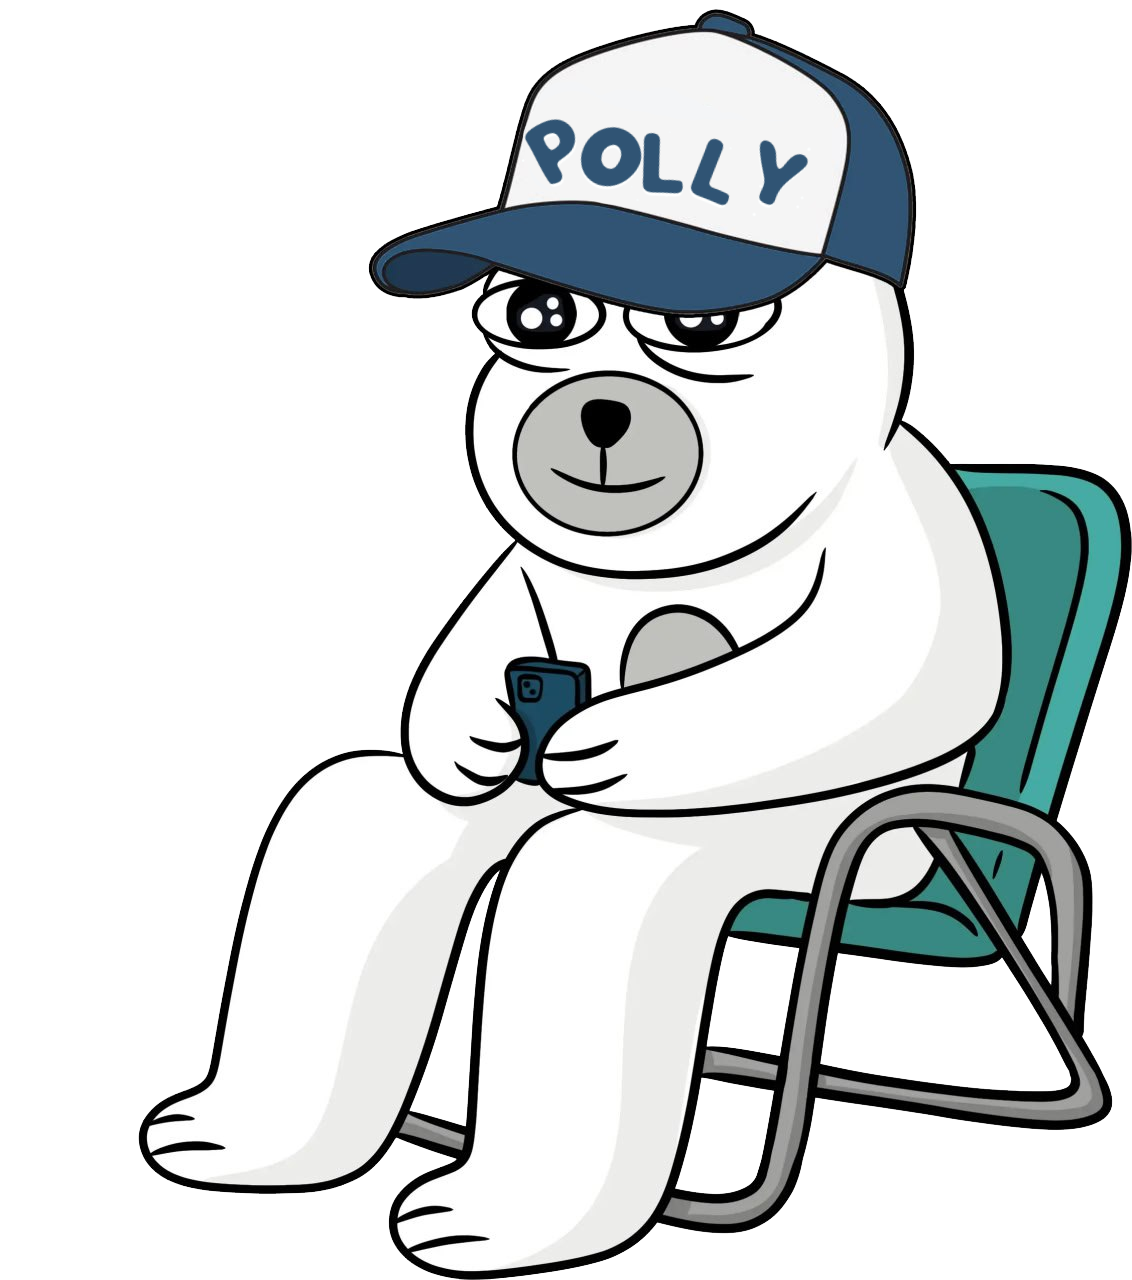
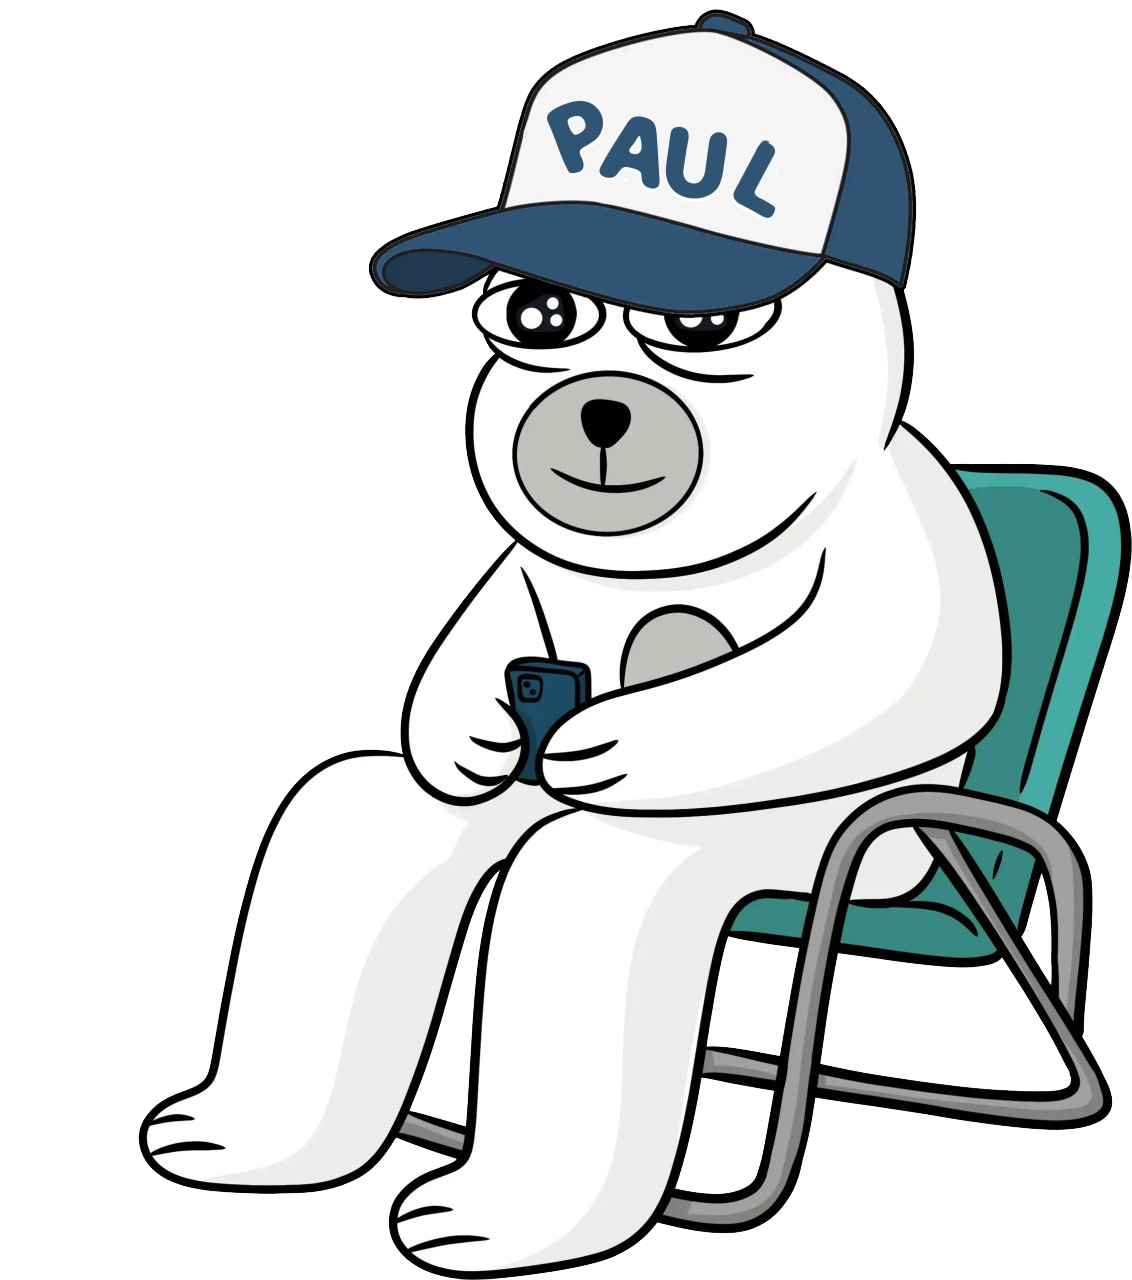
1

Changed region(s): [[0.4638, 0.0625, 0.7111, 0.1875]]

diff --git a/index.html b/index.html
@@ -16,22 +16,22 @@
 		<meta name="distribution" content="global"> 
 		<meta name="robots" content="index,follow"> 
 		<meta name="country" content="US">
-		<meta name="description" content="POLLY is the newest charismatic fluffy ruler of the frozen crypto tundra. This fun, decentralized, community-driven token is built on Solana Chain.">
+		<meta name="description" content="PAUL is the newest charismatic fluffy ruler of the frozen crypto tundra. This fun, decentralized, community-driven token is built on Solana Chain.">
 		<meta name="google-site-verification" content="">
 		
 		<!-- Open Graph Meta Tags -->
 		<meta property="og:type" content="website">
 		<meta property="og:url" content="">
-		<meta property="og:title" content="Polly | The Official Polly Bear on Solanachain">
-		<meta property="og:description" content="POLLY is the newest charismatic fluffy ruler of the frozen crypto tundra. This fun, decentralized, community-driven token is built on Solana Chain.">
+		<meta property="og:title" content="Paul | The Official Paul Bear on Solanachain">
+		<meta property="og:description" content="PAUL is the newest charismatic fluffy ruler of the frozen crypto tundra. This fun, decentralized, community-driven token is built on Solana Chain.">
 
 		
 		<!-- Twitter Card Meta Tags -->
 		<meta name="twitter:card" content="summary_large_image">
 		<meta name="twitter:site" content="@polaonbase">
 		<meta name="twitter:url" content="https://www.polaonbase.com/">
-		<meta name="twitter:title" content="Polly | The Official Pollyr Bear on Solanachain">
-		<meta name="twitter:description" content="POLLY is the newest charismatic fluffy ruler of the frozen crypto tundra. This fun, decentralized, community-driven token is built on Solana Chain.">
+		<meta name="twitter:title" content="Paul | The Official Paulr Bear on Solanachain">
+		<meta name="twitter:description" content="PAUL is the newest charismatic fluffy ruler of the frozen crypto tundra. This fun, decentralized, community-driven token is built on Solana Chain.">
 		<meta property="twitter:image" content="https://polaonbase.com/assets/images/pola-twitter-og.jpg">
 		
 		<!-- Favicon and Additional Resources -->
@@ -45,7 +45,7 @@
 		<meta name="msapplication-TileColor" content="#9c2730">
 		<meta name="theme-color" content="#ffffff">
 		
-		<title>Polly | The Official Polar Bear on Solanachain</title>
+		<title>Paul | The Official Polar Bear on Solanachain</title>
 		<link href="assets/css/include.css" rel="stylesheet">
 		<!-- Google tag (gtag.js) -->
 		<script async src="https://www.googletagmanager.com/gtag/js?id=G-083C66RB80"></script>
@@ -72,13 +72,13 @@
 					<div class="hero w-100">
 						<h1 class="banner milky display-l lh-1 hstack align-items-center justify-content-center text-blue-4">
 							<span>P</span>
-							<span>O</span>
+							<span>A</span>
+							<span>U</span>
 							<span>L</span>
-							<span>L</span>
-							<span>Y</span>
+							
 						</h1>
 						<div class="vstack mx-auto col-12 col-xl-6 milky fs-3 text-center gap-1 lh-base text-blue-4">
-							<span>Hi I'm Polly</span>
+							<span>Hi I'm Paul</span>
 							<span>I'm the coldest, chillest, and funniest bear</span>
 							<span>in the entire SOLArctic. Welcome to my world.</span>
 						</div>
@@ -137,8 +137,8 @@
 				<div class="container py-5 position-relative">
 					<div class="d-flex flex-column col-12 col-lg-8 justify-content-center gap-4 text-center position-relative z-1 py-0 py-md-5 text-blue-4 milky">
 						<h2 class="display-3">A New King Has Risen</h2>
-						<p class="fs-5 lh-base">Meet Polly, the latest ruler of the icy domains of cryptocurrency, a royal polar bear who's more chilled than the arctic ice and cooler than the other side of the pillow. Born on the vast, frostbitten landscapes of the Solana Chain, this fluffy monarch has swiftly ascended to the throne, not through bloodshed or conquest, but with sheer charisma and an unshakable belief in the power of meme magic.</p>
-						<p class="fs-5 lh-base">This is not your average bear. Polly's reign is marked by his unorthodox approach to governance; he rules with a gentle paw and a heart as big as his appetite for salmon. In a world where seriousness often overshadows fun, Polly dares to ask, "Why not both?" He's democratizing the crypto kingdom one belly slide at a time, proving that you can indeed mix business with pleasure and that every bear can have his fish and eat it too.</p>
+						<p class="fs-5 lh-base">Meet Paul, the latest ruler of the icy domains of cryptocurrency, a royal polar bear who's more chilled than the arctic ice and cooler than the other side of the pillow. Born on the vast, frostbitten landscapes of the Solana Chain, this fluffy monarch has swiftly ascended to the throne, not through bloodshed or conquest, but with sheer charisma and an unshakable belief in the power of meme magic.</p>
+						<p class="fs-5 lh-base">This is not your average bear. Paul's reign is marked by his unorthodox approach to governance; he rules with a gentle paw and a heart as big as his appetite for salmon. In a world where seriousness often overshadows fun, Paul dares to ask, "Why not both?" He's democratizing the crypto kingdom one belly slide at a time, proving that you can indeed mix business with pleasure and that every bear can have his fish and eat it too.</p>
 					</div>
 				</div>
 				<div class="baby-pola"></div>
@@ -148,17 +148,17 @@
 					<div class="d-flex flex-column-reverse flex-md-row gap-4">
 						<div class="d-flex flex-column justify-content-center gap-4 col-12 col-md-6">
 							<div class="d-flex flex-column gap-1 text-blue-4">
-								<span class="fs-4 milky lh-base">Polly on Solanachain</span>
-								<h2 class="milky display-s lh-1 ">OFFICIAL POLLY LINKS</h2>
+								<span class="fs-4 milky lh-base">Paul on Solanachain</span>
+								<h2 class="milky display-s lh-1 ">OFFICIAL PAUL LINKS</h2>
 							</div>
 
 							<div class="d-flex flex-column gap-2">
 								<span class="fs-6 milky fw-bolder text-blue-4">Social &amp; Onchain Data</span>
 								<div class="socials hstack gap-3">
-									<a href="https://x.com/pollycoinfun" target="_blank">
+									<a href="https://x.com/paulonsolcoin" target="_blank">
 										<div class="icon twitter rounded-circle"></div>
 									</a>
-									<a href="https://t.me/pollycoinfun" target="_blank">
+									<a href="https://t.me/paulonsolcoin" target="_blank">
 										<div class="icon telegram rounded-circle"></div>
 									</a>
 									<a href="#" target="_blank">
@@ -173,7 +173,7 @@
 								<span class="fs-6 milky fw-bolder text-blue-4">Exchanges (MORE TBA)</span>
 								<div class="row row-cols-2 row-cols-lg-3 g-3">
 									<div class="col">
-										<a href="https://pump.fun/14V9ifDFLuzmKfdjYyjRH46Vn8knTM1EgP6Wb9ZUpump" target="_blank" class="h-100 btn btn-md btn-light rounded-pill w-100 py-2 px-3">
+										<a href="https://pump.fun/ZissBdtpd3b2VJ1j67fkBWBV4avP52S9SmuyR2PPAUL" target="_blank" class="h-100 btn btn-md btn-light rounded-pill w-100 py-2 px-3">
 											<img src="assets/logos/pumpfun.svg" class="w-75 mt-1" alt="uniswap link">
 										</a>
 									</div>
@@ -196,10 +196,10 @@
 							</div-->
 						</div>
 						<div class="col-12 col-md-4 pola-in-phone">
-							<a class="polarmy-buble polarmy-link" href="https://t.me/pollycoinfun"><img src="assets/images/pola-phone-bubble-r.png" class="w-100 " alt="click to join polarmy"></a>
-							<a href="https://t.me/pollycoinfun"><img src="assets/images/pola-phone-r.png" class="w-100 " alt="pola having fun on tg"></a>
-							<a class="polarmy-buble polarmy-link" href="https://t.me/pollycoinfun"><img src="assets/images/pola-phone-bubble-l.png" class="w-100 " alt="click to join polarmy"></a>
-							<a  href="https://t.me/pollycoinfun"><img src="assets/images/pola-phone-l.png" class="w-100 " alt="pola having fun on tg"></a>
+							<a class="polarmy-buble polarmy-link" href="https://t.me/paulonsolcoin"><img src="assets/images/pola-phone-bubble-r.png" class="w-100 " alt="click to join polarmy"></a>
+							<a href="https://t.me/paulonsolcoin"><img src="assets/images/pola-phone-r.png" class="w-100 " alt="pola having fun on tg"></a>
+							<a class="polarmy-buble polarmy-link" href="https://t.me/paulonsolcoin"><img src="assets/images/pola-phone-bubble-l.png" class="w-100 " alt="click to join polarmy"></a>
+							<a  href="https://t.me/paulonsolcoin"><img src="assets/images/pola-phone-l.png" class="w-100 " alt="pola having fun on tg"></a>
 						</div>
 					</div>
 					
@@ -225,17 +225,17 @@
 			<section id="tokenomics" class="position-relative bg-blue-4 py-5 snow-cap">
 				<div class="container py-5 position-relative">
 					<div class="vstack gap-4 text-center mb-5 col-12 col-xl-6 mx-auto text-white milky">
-						<h2 class="display-1 shouxietongzhen gradient-txt-1">Pollynomics</h2>
-						<p class="fs-5 lh-base">Adhering to the ethos of decentralization, $POLLY adopted a strategy to ensure genuine community ownership and nurture growth with steadfast support from the community.</p>
+						<h2 class="display-1 shouxietongzhen gradient-txt-1">Paulnomics</h2>
+						<p class="fs-5 lh-base">Adhering to the ethos of decentralization, $PAUL adopted a strategy to ensure genuine community ownership and nurture growth with steadfast support from the community.</p>
 					</div>
 
 					<div class="d-flex flex-column flex-xl-row disclaimer rounded-4 p-3 border border-4 border-blue-1 shadow gap-3 col-12 col-xl-8 mx-auto mb-4 bg-white milky text-blue-4">
-						<a href="https://pump.fun/14V9ifDFLuzmKfdjYyjRH46Vn8knTM1EgP6Wb9ZUpump"><button class="btn btn-lg btn-light px-3">
-							<span class="fw-bold fs-6 text-blue-4">Buy $POLLY</span>
+						<a href="https://pump.fun/ZissBdtpd3b2VJ1j67fkBWBV4avP52S9SmuyR2PPAUL"><button class="btn btn-lg btn-light px-3">
+							<span class="fw-bold fs-6 text-blue-4">Buy $PAUL</span>
 						</button></a>
 						<div class="col-12 col-xl-10 hstack gap-3 justify-content-between rounded-3 border p-1 fs-6">
-							<span class="text-truncate fw-bold ms-3 contact">Contract address: 14V9ifDFLuzmKfdjYyjRH46Vn8knTM1EgP6Wb9ZUpump</span>
-							<button class="btn btn-md btn-light copy" data-text="14V9ifDFLuzmKfdjYyjRH46Vn8knTM1EgP6Wb9ZUpump">
+							<span class="text-truncate fw-bold ms-3 contact">Contract address: ZissBdtpd3b2VJ1j67fkBWBV4avP52S9SmuyR2PPAUL</span>
+							<button class="btn btn-md btn-light copy" data-text="ZissBdtpd3b2VJ1j67fkBWBV4avP52S9SmuyR2PPAUL">
 								<i class="bi bi-clipboard"></i>
 							</button>
 						</div>
@@ -308,7 +308,7 @@
 									<img src="assets/images/icons/base.svg" class="w-100" alt="base logo">
 								</div>
 								<h3 class="fw-bolder fs-1 milky text-uppercase lh-1">Secure Solana (BASE ETH)</h3>
-								<p class="fs-6 lh-base milky">Purchase Solanachain Ethereum (BASE), the foundational currency required for transactions on the base network where $POLLY operates. BASE ETH acts as the "gas" for transactions, including buying $POLLY.</p>
+								<p class="fs-6 lh-base milky">Purchase Solanachain Ethereum (BASE), the foundational currency required for transactions on the base network where $PAUL operates. BASE ETH acts as the "gas" for transactions, including buying $PAUL.</p>
 							</div>
 						</div>
 						<div class="col">
@@ -316,8 +316,8 @@
 								<div class="col-4 col-md-2">
 									<img src="assets/images/pola-5.webp" class="w-100" alt="buy pola">
 								</div>
-								<h3 class="fw-bolder fs-1 milky text-uppercase lh-1">Buy $POLLY</h3>
-								<p class="fs-6 lh-base milky">Use your newly acquired BASE ETH to purchase $POLLY tokens through a cryptocurrency exchange or decentralized exchange platform that lists $POLLY.</p>
+								<h3 class="fw-bolder fs-1 milky text-uppercase lh-1">Buy $PAUL</h3>
+								<p class="fs-6 lh-base milky">Use your newly acquired BASE ETH to purchase $PAUL tokens through a cryptocurrency exchange or decentralized exchange platform that lists $PAUL.</p>
 							</div>
 						</div>
 						<div class="col">
@@ -326,7 +326,7 @@
 									<img src="assets/images/icons/crypto-wallet.svg" class="w-100" alt="wallet logo">
 								</div>
 								<h3 class="fw-bolder fs-1 milky text-uppercase lh-1">Add To Your Wallet</h3>
-								<p class="fs-6 lh-base milky">Import $POLLY tokens into your MetaMask wallet by adding the pola token's contract address. This allows you to view and manage your $POLLY holdings directly within MetaMask.</p>
+								<p class="fs-6 lh-base milky">Import $PAUL tokens into your MetaMask wallet by adding the pola token's contract address. This allows you to view and manage your $PAUL holdings directly within MetaMask.</p>
 							</div>
 						</div>
 					</div>
@@ -344,8 +344,8 @@
 					
 						<img src="assets/images/VPN-Logo.svg" class="vpn-logo" alt="pola vpn logo">
 						
-						<h2 class="text-nowrap milky display-s lh-1">Polly VPN</h2>
-						<span class="text-center fs-6 lh-base milky">POLLYVPN is the very first memecoin to have this feature. it is your gateway to a secure and unrestricted online experience, designed with your privacy in mind. Whether you're browsing, streaming, or working remotely, POLLYVPN ensures your data stays protected and your connections remain anonymous.</span>
+						<h2 class="text-nowrap milky display-s lh-1">Paul VPN</h2>
+						<span class="text-center fs-6 lh-base milky">PAULVPN is the very first memecoin to have this feature. it is your gateway to a secure and unrestricted online experience, designed with your privacy in mind. Whether you're browsing, streaming, or working remotely, PAULVPN ensures your data stays protected and your connections remain anonymous.</span>
 						<div class="vpn-button-container" >
 							<button type="button" id="openISOApp" class="vpn-button border btn btn-light rounded-pill milky py-4 p-5 hstack gap-3 justify-content-center w-48">
 								<span class="fw-bolder fs-4">Android App soon</span>
@@ -402,10 +402,10 @@
 								<img src="assets/images/nfts/10.webp" alt="pola nft">
 							</div>
 						</div>
-						<h2 class="display-s lh-1 milky text-blue-4">POLLY NFT</h2>
+						<h2 class="display-s lh-1 milky text-blue-4">PAUL NFT</h2>
 						<div class="vstack gap-3 fs-6 fw-normal lh-base text-dark text-opacity-75">
-							<p>Explore POLLY NFT, an enchanting collection of 5,000 NFTs, released on Solana drawing inspiration from a cherished polar bear, these NFTs capture the essence and spirit of a unique polar bear-inspired theme.</p>
-							<p>Owning a POLLY NFT connects you to the dynamic community surrounding this theme, signifying your appreciation and embrace of the unique culture these digital assets symbolize.</p>
+							<p>Explore PAUL NFT, an enchanting collection of 5,000 NFTs, released on Solana drawing inspiration from a cherished polar bear, these NFTs capture the essence and spirit of a unique polar bear-inspired theme.</p>
+							<p>Owning a PAUL NFT connects you to the dynamic community surrounding this theme, signifying your appreciation and embrace of the unique culture these digital assets symbolize.</p>
 						</div>
 						<div>
 							<span class="fw-bold fw-bold py-2 rounded-pill">Collection Coming Soon</span>
@@ -422,14 +422,14 @@
 							<div class="d-flex flex-column gap-1 text-blue-4">
 								<span class="fs-4 milky">Ice Cream Products</span>
 								<div class="hstack">
-									<h2 id="data-title" class="text-nowrap milky display-s lh-1">PollyPops</h2>
+									<h2 id="data-title" class="text-nowrap milky display-s lh-1">PaulPops</h2>
 									<span class="fs-2 fw-bold lh-1">ⓒ</span>
 								</div>
-								<span id="data-description" class="fs-6 lh-base milky">Polly Pops brings a refreshing twist to your favorite frozen treat! Our ice creams are handcrafted with natural ingredients, offering a burst of flavors that are as unique as they are delicious. From the classic creamy delights to exotic fruit-filled wonders, each Polly Pop is designed to provide a blissful escape into a world of sweet, frosty pleasure.</span>
+								<span id="data-description" class="fs-6 lh-base milky">Paul Pops brings a refreshing twist to your favorite frozen treat! Our ice creams are handcrafted with natural ingredients, offering a burst of flavors that are as unique as they are delicious. From the classic creamy delights to exotic fruit-filled wonders, each Paul Pop is designed to provide a blissful escape into a world of sweet, frosty pleasure.</span>
 							</div>
 
 							<div class="d-flex flex-column gap-4">
-								<span class="fs-3 milky text-blue-4">PollyPops Flavors</span>
+								<span class="fs-3 milky text-blue-4">PaulPops Flavors</span>
 								<div class="row row-cols-3 row-cols-md-5 g-3 ice-creams">
 																		<div data-id="1" class="col data-source">
 										<a role="button" data-image="assets/flavors/1.webp" class="vstack h-100 rounded-4 p-3 gap-3 text-center">
@@ -498,7 +498,7 @@
 								<span class="fw-bold fs-6">Legal Disclaimer</span>
 								<i class="bi bi-arrow-down-circle-fill"></i>
 							</a>
-							<p id="legal" class="p-3 fs-7 lh-base d-none text-white">The content on the Polly Token website is not meant to be understood as investment, financial, trading, or any form of advice, and should not be interpreted as such. Polly Token does not suggest that any should be bought, sold, or held by you. It is important to perform your own thorough research and consult with your financial advisor prior to making any investment decisions. By acquiring Polly Token, you acknowledge that you are not obtaining a security or investment and you agree to absolve Polly Token of any responsibility for any losses or taxes you may face. Additionally, you accept that Polly Token is offered "as is" without any obligation for support or services. Expectations from Polly Token should be none. Although Polly Token is designed for social networking and is not a registered digital currency, it is highly advised that individuals in locations where is banned by the government refrain from purchasing it, as Polly Token cannot guarantee adherence to the legal requirements of your region. Always ensure your actions are in full compliance with local laws and regulations before making any purchases.</p>
+							<p id="legal" class="p-3 fs-7 lh-base d-none text-white">The content on the Paul Token website is not meant to be understood as investment, financial, trading, or any form of advice, and should not be interpreted as such. Paul Token does not suggest that any should be bought, sold, or held by you. It is important to perform your own thorough research and consult with your financial advisor prior to making any investment decisions. By acquiring Paul Token, you acknowledge that you are not obtaining a security or investment and you agree to absolve Paul Token of any responsibility for any losses or taxes you may face. Additionally, you accept that Paul Token is offered "as is" without any obligation for support or services. Expectations from Paul Token should be none. Although Paul Token is designed for social networking and is not a registered digital currency, it is highly advised that individuals in locations where is banned by the government refrain from purchasing it, as Paul Token cannot guarantee adherence to the legal requirements of your region. Always ensure your actions are in full compliance with local laws and regulations before making any purchases.</p>
 						</div>
 
 						<div class="vstack disclaimer rounded-4 shadow-sm">
@@ -511,11 +511,11 @@
 
 						<div class="d-flex flex-column flex-xl-row disclaimer rounded-4 p-3 shadow gap-3">
 							<button class="btn btn-lg btn-light px-3">
-								<a class="fw-bold fs-6 text-nowrap text-black" href="https://pump.fun/14V9ifDFLuzmKfdjYyjRH46Vn8knTM1EgP6Wb9ZUpump" target="_blank">Buy $POLLY</a>
+								<a class="fw-bold fs-6 text-nowrap text-black" href="https://pump.fun/ZissBdtpd3b2VJ1j67fkBWBV4avP52S9SmuyR2PPAUL" target="_blank">Buy $PAUL</a>
 							</button>
 							<div class="col-12 col-xl-10 text-white hstack gap-3 justify-content-between rounded-3 border p-1 fs-6">
-								<span class="text-truncate fw-bold ms-3 contact">Contract address: 14V9ifDFLuzmKfdjYyjRH46Vn8knTM1EgP6Wb9ZUpump</span>
-								<button class="btn btn-md btn-light copy" data-text="14V9ifDFLuzmKfdjYyjRH46Vn8knTM1EgP6Wb9ZUpump">
+								<span class="text-truncate fw-bold ms-3 contact">Contract address: ZissBdtpd3b2VJ1j67fkBWBV4avP52S9SmuyR2PPAUL</span>
+								<button class="btn btn-md btn-light copy" data-text="ZissBdtpd3b2VJ1j67fkBWBV4avP52S9SmuyR2PPAUL">
 									<i class="bi bi-clipboard"></i>
 								</button>
 							</div>
@@ -525,10 +525,10 @@
 							<div class="col-12 col-md-4">
 								<div class="vstack gap-3">
 									<img src="assets/logos/pola.svg" class="col-8" alt="pola logo">
-									<small class="d-block mb-3">Collect, create, and engage with Polly!</small>
+									<small class="d-block mb-3">Collect, create, and engage with Paul!</small>
 									<div class="hstack gap-4">
-										<a href="https://x.com/pollycoinfun" target="_blank" class="fs-4"><i class="bi bi-twitter"></i></a>
-										<a href="https://t.me/pollycoinfun" target="_blank" class="fs-4"><i class="bi bi-telegram"></i></a>
+										<a href="https://x.com/paulonsolcoin" target="_blank" class="fs-4"><i class="bi bi-twitter"></i></a>
+										<a href="https://t.me/paulonsolcoin" target="_blank" class="fs-4"><i class="bi bi-telegram"></i></a>
 									</div>
 								</div>
 							</div>
@@ -542,13 +542,13 @@
 		<div class="menu text-nowrap rounded-pill position-fixed bottom-0 z-3 bg-white border border-4 shadow d-none d-lg-block">
 			<div class="menu-list hstack gap-1">
 								<a href="#home" class="d-none d-md-block btn rounded-pill active.">Home</a>
-								<a href="#about" class="d-none d-md-block btn rounded-pill">About Polly</a>
+								<a href="#about" class="d-none d-md-block btn rounded-pill">About Paul</a>
 								<a href="#links" class="d-none d-md-block btn rounded-pill">Ecosystem</a>
 								<a href="#tokenomics" class="d-none d-md-block btn rounded-pill">Tokenomics</a>
 
 								<a href="#vpn" class="d-none d-md-block btn rounded-pill">VPN</a>
 								<a href="#nft" class="d-none d-md-block btn rounded-pill">NFT</a>
-								<a href="#popsicles" class="d-none d-md-block btn rounded-pill">PollyPops</a>
+								<a href="#popsicles" class="d-none d-md-block btn rounded-pill">PaulPops</a>
 								<a href="#" class="d-block d-md-none hamburger-menu">
 					<div></div>
 					<div></div>
